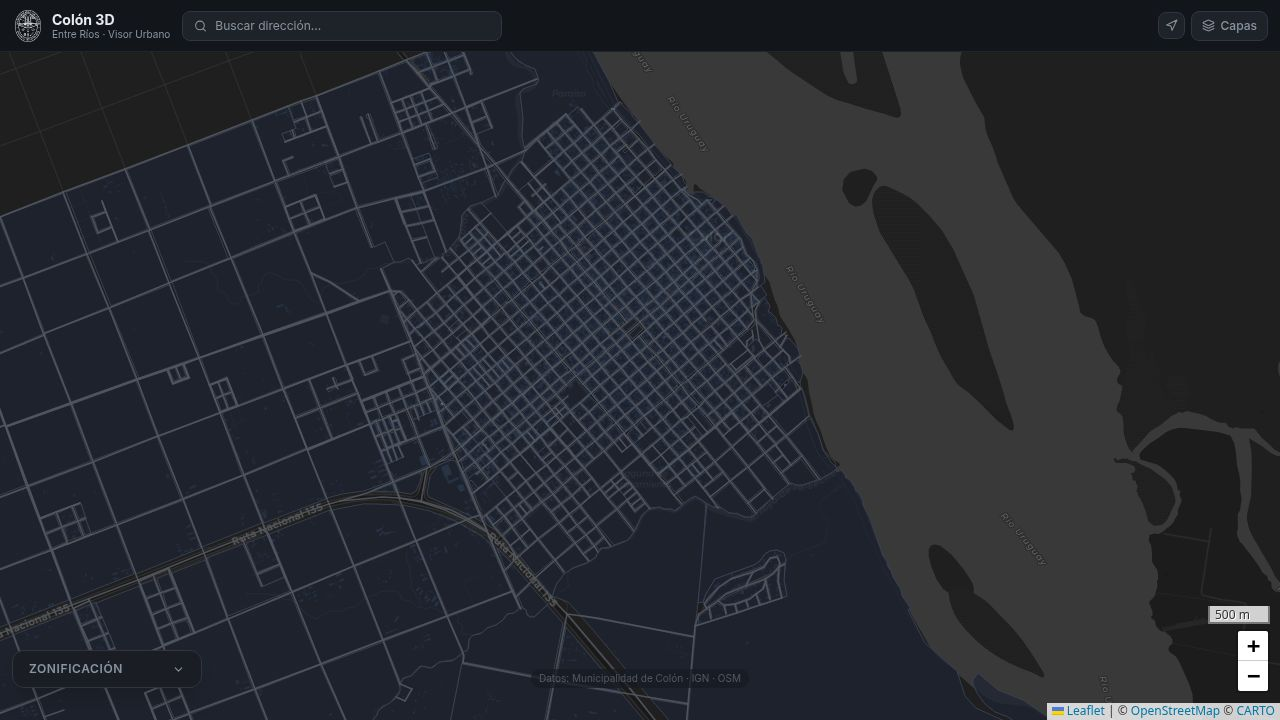
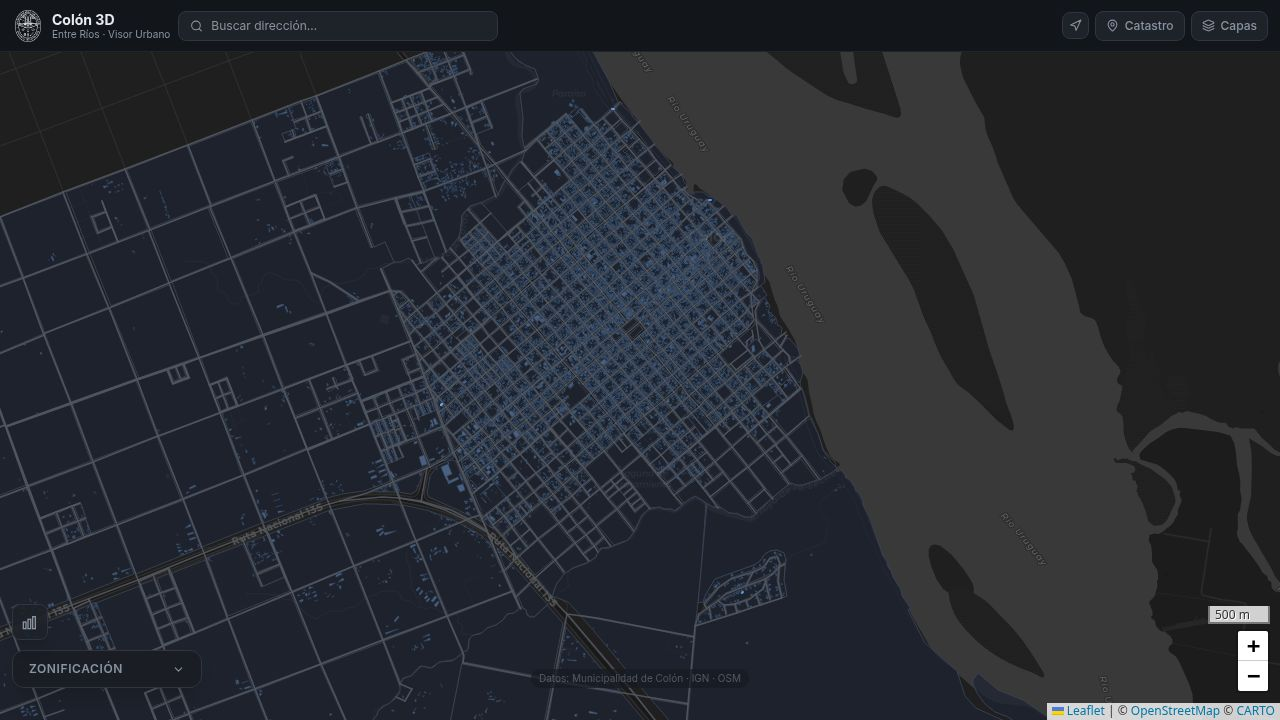
Add cadastral search and improve map label styling
Update header component to include a cadastral search button and functionality. Refactor CSS for map labels to properly handle rotation and centering, and override default Leaflet cursors.

Replit-Commit-Author: Agent
Replit-Commit-Session-Id: bac8c467-6341-464b-8159-ae2a8d5acb09
Replit-Commit-Checkpoint-Type: full_checkpoint
Replit-Commit-Event-Id: dbb1af30-eaa6-492c-82b7-17bbc4b7bb6a
Replit-Commit-Screenshot-Url: https://storage.googleapis.com/screenshot-production-us-central1/7724d8c5-3b64-4065-b919-23a3176fa3bc/bac8c467-6341-464b-8159-ae2a8d5acb09/aOPrBZW
Replit-Helium-Checkpoint-Created: true

diff --git a/artifacts/colon-3d/src/components/Header.tsx b/artifacts/colon-3d/src/components/Header.tsx
@@ -1,17 +1,27 @@
-import { useState } from "react";
-import { Layers, Search, Navigation } from "lucide-react";
+import { useState, useRef } from "react";
+import { Layers, Search, Navigation, MapPin, X, Loader2 } from "lucide-react";
 import L from "leaflet";
 import { COLON_CENTER, COLON_ZOOM } from "@/lib/layers";
 
 interface HeaderProps {
   onToggleLayers: () => void;
   layersPanelOpen: boolean;
+  onToggleCadastral: () => void;
+  cadastralOpen: boolean;
   mapRef: React.RefObject<L.Map | null>;
 }
 
-export default function Header({ onToggleLayers, layersPanelOpen, mapRef }: HeaderProps) {
+export default function Header({
+  onToggleLayers,
+  layersPanelOpen,
+  onToggleCadastral,
+  cadastralOpen,
+  mapRef,
+}: HeaderProps) {
   const [searchQuery, setSearchQuery] = useState("");
   const [searching, setSearching] = useState(false);
+  const [searchError, setSearchError] = useState(false);
+  const abortRef = useRef<AbortController | null>(null);
 
   const handleReset = () => {
     const map = mapRef.current;
@@ -21,28 +31,52 @@ export default function Header({ onToggleLayers, layersPanelOpen, mapRef }: Head
 
   const handleSearch = async (e: React.FormEvent) => {
     e.preventDefault();
-    if (!searchQuery.trim()) return;
+    const q = searchQuery.trim();
+    if (!q) return;
+
+    if (abortRef.current) abortRef.current.abort();
+    abortRef.current = new AbortController();
+
     setSearching(true);
+    setSearchError(false);
+
     try {
-      const q = encodeURIComponent(`${searchQuery}, Colón, Entre Ríos, Argentina`);
-      const res = await fetch(`https://nominatim.openstreetmap.org/search?q=${q}&format=json&limit=1`);
-      const data = await res.json();
-      if (data && data[0]) {
+      const encoded = encodeURIComponent(`${q}, Colón, Entre Ríos, Argentina`);
+      const url = `https://nominatim.openstreetmap.org/search?q=${encoded}&format=json&limit=3&countrycodes=ar`;
+      const res = await fetch(url, {
+        signal: abortRef.current.signal,
+        headers: { "Accept-Language": "es", "User-Agent": "ColoVisorUrbano/1.0" },
+      });
+      if (!res.ok) throw new Error("API error");
+      const data: { lat: string; lon: string; display_name: string }[] = await res.json();
+
+      if (data?.length) {
         const { lon, lat } = data[0];
         mapRef.current?.flyTo([parseFloat(lat), parseFloat(lon)], 17, { duration: 1.2 });
+        setSearchQuery("");
+      } else {
+        setSearchError(true);
       }
-    } catch {
+    } catch (err) {
+      if ((err as Error).name !== "AbortError") setSearchError(true);
     } finally {
       setSearching(false);
     }
   };
 
+  const clearSearch = () => {
+    setSearchQuery("");
+    setSearchError(false);
+    if (abortRef.current) abortRef.current.abort();
+  };
+
   return (
     <header
-      className="absolute top-0 left-0 right-0 z-[1000] flex items-center gap-3 px-3 py-2 border-b border-border/50"
+      className="absolute top-0 left-0 right-0 z-[1000] flex items-center gap-2 px-3 py-2 border-b border-border/50"
       style={{ background: "hsl(220 18% 9% / 0.96)", backdropFilter: "blur(8px)", height: "52px" }}
       data-testid="header"
     >
+      {/* Logo */}
       <div className="flex items-center gap-2 min-w-0 flex-shrink-0">
         <img
           src="/logo-municipalidad.png"
@@ -56,21 +90,38 @@ export default function Header({ onToggleLayers, layersPanelOpen, mapRef }: Head
         </div>
       </div>
 
+      {/* Address search */}
       <form onSubmit={handleSearch} className="flex-1 max-w-xs">
         <div className="relative">
           <Search size={13} className="absolute left-3 top-1/2 -translate-y-1/2 text-muted-foreground pointer-events-none" />
           <input
             type="search"
             value={searchQuery}
-            onChange={e => setSearchQuery(e.target.value)}
-            placeholder="Buscar dirección..."
+            onChange={e => { setSearchQuery(e.target.value); setSearchError(false); }}
+            placeholder="Buscar dirección…"
             disabled={searching}
-            className="w-full pl-8 pr-3 py-1.5 text-xs rounded-lg border border-border bg-card text-foreground placeholder:text-muted-foreground focus:outline-none focus:ring-1 focus:ring-primary/50 transition-all disabled:opacity-60"
+            className={`w-full pl-8 pr-7 py-1.5 text-xs rounded-lg border bg-card text-foreground placeholder:text-muted-foreground focus:outline-none focus:ring-1 transition-all disabled:opacity-60 ${
+              searchError ? "border-red-500/60 focus:ring-red-500/40" : "border-border focus:ring-primary/50"
+            }`}
             data-testid="input-search"
           />
+          {searching && (
+            <Loader2 size={12} className="absolute right-2.5 top-1/2 -translate-y-1/2 text-muted-foreground animate-spin" />
+          )}
+          {!searching && (searchQuery || searchError) && (
+            <button type="button" onClick={clearSearch} className="absolute right-2.5 top-1/2 -translate-y-1/2 text-muted-foreground hover:text-foreground">
+              <X size={11} />
+            </button>
+          )}
         </div>
+        {searchError && (
+          <div className="absolute top-full left-0 mt-1 text-[10px] text-red-400 px-1">
+            No se encontró la dirección en Colón.
+          </div>
+        )}
       </form>
 
+      {/* Toolbar buttons */}
       <div className="flex items-center gap-1.5 ml-auto">
         <button
           onClick={handleReset}
@@ -79,6 +130,20 @@ export default function Header({ onToggleLayers, layersPanelOpen, mapRef }: Head
           data-testid="button-reset-view"
         >
           <Navigation size={13} />
+        </button>
+
+        <button
+          onClick={onToggleCadastral}
+          className={`flex items-center gap-1.5 px-2.5 py-1.5 text-xs rounded-lg border transition-all font-medium ${
+            cadastralOpen
+              ? "bg-amber-500/20 border-amber-500/40 text-amber-400"
+              : "bg-card border-border text-muted-foreground hover:text-foreground"
+          }`}
+          title="Búsqueda catastral"
+          data-testid="button-toggle-cadastral"
+        >
+          <MapPin size={13} />
+          <span className="hidden sm:inline">Catastro</span>
         </button>
 
         <button

diff --git a/artifacts/colon-3d/src/index.css b/artifacts/colon-3d/src/index.css
@@ -210,11 +210,32 @@
 /* Layer toggle animation */
 .layer-toggle { transition: all 0.2s ease; }
 
-/* Map feature labels */
+/* ── Leaflet cursor overrides ─────────────────────────────────────────── */
+.leaflet-container,
+.leaflet-grab,
+.leaflet-dragging .leaflet-container,
+.leaflet-dragging .leaflet-grab {
+  cursor: default !important;
+}
+.leaflet-interactive,
+path.leaflet-interactive,
+.leaflet-dragging path.leaflet-interactive {
+  cursor: default !important;
+}
+
+/* ── Map container helper ─────────────────────────────────────────────── */
+.map-container { cursor: default !important; }
+
+/* ── Feature labels ───────────────────────────────────────────────────── */
 .map-label {
   background: transparent;
   border: none;
   pointer-events: none;
+}
+/* Centering wrapper — placed at iconAnchor [0,0] so we translate to center */
+.map-label-inner {
+  display: inline-block;
+  transform: translate(-50%, -50%);
 }
 .map-label-text {
   display: inline-block;
@@ -222,13 +243,12 @@
   font-size: 9px;
   font-weight: 600;
   color: rgba(255, 255, 255, 0.85);
-  text-shadow: 0 0 3px rgba(0,0,0,0.9), 0 0 6px rgba(0,0,0,0.8), 1px 1px 2px rgba(0,0,0,1);
+  text-shadow:
+    0 0 3px rgba(0,0,0,0.95),
+    0 0 6px rgba(0,0,0,0.85),
+    1px 1px 2px rgba(0,0,0,1);
   letter-spacing: 0.3px;
   white-space: nowrap;
-  transform: translate(-50%, -50%);
   pointer-events: none;
-}
-/* Larger labels for sections and zones */
-.leaflet-marker-icon.map-label .map-label-text:not(:empty) {
-  font-size: 10px;
+  transform-origin: center center;
 }

diff --git a/artifacts/colon-3d/src/pages/MapViewer.tsx b/artifacts/colon-3d/src/pages/MapViewer.tsx
@@ -87,7 +87,8 @@ function preprocessZonas(data: FeatureCollection): FeatureCollection {
 
 function getFeatureBounds(geometry: Geometry): L.LatLngBounds | null {
   try {
-    const layer = L.geoJSON({ type: "Feature", geometry, properties: {} });
+    // eslint-disable-next-line @typescript-eslint/no-explicit-any
+    const layer = L.geoJSON({ type: "Feature", geometry, properties: {} } as any);
     const b = layer.getBounds();
     return b.isValid() ? b : null;
   } catch { return null; }
@@ -247,7 +248,7 @@ export default function MapViewer() {
       const marker = L.marker(centroid as L.LatLngExpression, {
         icon: L.divIcon({
           className: "map-label",
-          html: `<span class="map-label-text" style="transform:rotate(${rotation}deg);display:inline-block;transform-origin:center center;white-space:nowrap;">${text}</span>`,
+          html: `<div class="map-label-inner"><span class="map-label-text" style="transform:rotate(${rotation}deg);">${text}</span></div>`,
           iconSize: [0, 0],
           iconAnchor: [0, 0],
         }),
@@ -283,7 +284,8 @@ export default function MapViewer() {
         // Compute area for edif from geometry
         let displayProps = { ...rawProps };
         if (layerId === "edif" || layerId === "edif_palta" || layerId === "ph" || layerId === "superp") {
-          const coords = feature.geometry?.coordinates?.[0];
+          // eslint-disable-next-line @typescript-eslint/no-explicit-any
+          const coords = (feature.geometry as any)?.coordinates?.[0];
           if (coords && (!rawProps.AREA || Number(rawProps.AREA) === 0)) {
             const area = computePolygonAreaM2(coords as number[][]);
             if (area > 0) displayProps = { ...displayProps, AREA: Math.round(area) };
